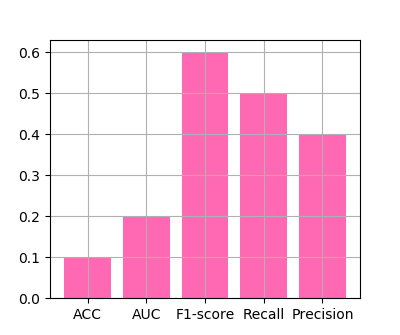
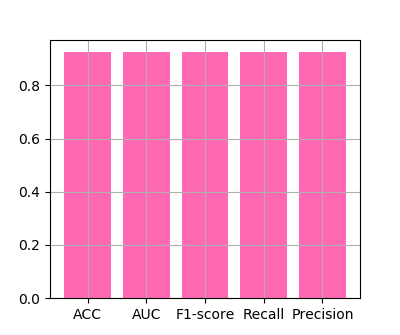
Add SDAE model to the system. But not finished

diff --git a/model/control.py b/model/control.py
@@ -11,20 +11,24 @@ from model.data import read_from_csv
 from model.sdae import SDAE
 
 
+# TODO: Calculate acc, auc, f1-score, recall, precision
+# TODO: Add SDAE model
+# TODO: Debug the whole fucking system
+
 # Calculate acc, auc, f1-score, recall, precision
 def evaluate(real, pred):
     r = np.reshape(real, [-1])
     p = np.reshape(pred, [-1])
     acc = accuracy_score(r, p)
     auc = roc_auc_score(r, p)
-    f_one_score = f1_score(r, p)
-    recall = recall_score(r, p)
-    precision = precision_score(r, p)
+    f_one_score = f1_score(r, p, average='weighted')
+    recall = recall_score(r, p, average='macro')
+    precision = precision_score(r, p, average='macro')
 
     return acc, auc, f_one_score, recall, precision
 
 
-# Draw auc, f1-score, recall, precision graph
+# Draw acc, auc, f1-score, recall, precision graph
 def draw_event_graph(result, event, model):
     """
     :param result: <tuple> (acc, auc, f1-score, recall, precision)
@@ -68,7 +72,6 @@ def draw_loss_curve(bleeding_loss, ischemic_loss, epoch, sample_quantity):
     plt.yticks(fontsize='xx-small')
 
     plt.legend(loc='upper right', fontsize='large', frameon=False)
-    # Delete top and right frames
     ax.spines['top'].set_color('none')
     ax.spines['right'].set_color('none')
     plt.savefig("../res/output/loss_curve.png")
@@ -115,7 +118,7 @@ def lr_experiment(dataset_path, epoch):
     ischemic_loss = []
 
     # Collect 50 loss values regardless of the value of epoch
-    sample_quantity = 5
+    sample_quantity = 50
     epoch = int(epoch)
     step = epoch // sample_quantity
 
@@ -158,9 +161,9 @@ def lr_experiment(dataset_path, epoch):
                 p[i, 1] = 0
 
         bleeding_result = evaluate(real=y_test, pred=p)
-        # draw_event_graph(bleeding_result, event="Bleeding events", model="lr")
+        draw_event_graph(bleeding_result, event="Bleeding events", model="lr")
 
-    ##########################################################################################################
+    ##########################################################################
     # Ischemic events
     x = tf.placeholder(tf.float32, [None, n_feature])
     w = tf.Variable(tf.zeros([n_feature, n_class]))
@@ -198,7 +201,7 @@ def lr_experiment(dataset_path, epoch):
                 p[i, 1] = 0
 
         ischemic_result = evaluate(real=y_test, pred=p)
-        # draw_event_graph(ischemic_result, event="Ischemic events", model="lr")
+        draw_event_graph(ischemic_result, event="Ischemic events", model="lr")
 
     if len(bleeding_loss) > sample_quantity:
         bleeding_loss = bleeding_loss[:-1]
@@ -215,12 +218,112 @@ def sdae_experiment(dataset_path, epoch, hiddens):
     :param hiddens: <list>
     :return:
     """
+    epoch = int(epoch)
     sample, bleed_label, ischemic_label = read_from_csv(dataset_path)
-    n_input = len(sample[0])
-    # sdae = SDAE(n_input, hiddens)
+    origin_n_input = len(sample[0])
+    n_class = 2
+    # 抽取后的feature数量
+    extract_feature_n = hiddens[-1]
+    # loss曲线的采样数量
+    sample_quantity = 50
+    step = sample_quantity // epoch
+    bleeding_loss = []
+    ischemic_loss = []
+
+    # Bleeding events
+    x_train, x_test, y_train, y_test = train_test_split(sample, bleed_label, test_size=0.3, random_state=0)
+    # SDAE本质上是无监督的，所以不需要label，训练SDAE用x_train即可
+    # 对特征抽取后，有一层Softmax，但是对于二分类而言，Softmax退化为LR
+    # LR是监督学习，需要训练。LR训练的样本是x_train抽取出来的x_extract_train，而样本标签依旧为y_train
+    print("1")
+    sdae = SDAE(origin_n_input, hiddens)
+    print("2")
+    sdae.pre_train(x_train)
+    print("3")
+    x_extract_train = sdae.encode(x_train)
+    print("4")
+    x_extract_test = sdae.encode(x_test)
+    print("5")
+    x = tf.placeholder(tf.float32, [None, extract_feature_n])
+    w = tf.Variable(tf.zeros([extract_feature_n, n_class]))
+    b = tf.Variable(tf.zeros([n_class]))
+
+    # y is prediction
+    y = tf.matmul(x, w) + b
+    pred = tf.nn.softmax(y)
+
+    # y_ is real
+    y_ = tf.placeholder(tf.float32, [None, n_class])
+    cross_entropy = tf.reduce_mean(tf.losses.softmax_cross_entropy(y_, y))
+    train_step = tf.train.AdamOptimizer(0.001).minimize(cross_entropy)
+
+    with tf.Session() as sess:
+        for i in range(epoch):
+            _, p, loss = sess.run((train_step, pred, cross_entropy), feed_dict={x: x_extract_train, y_: y_train})
+            if i % step == 0:
+                bleeding_loss.append(loss)
+
+        p = sess.run(pred, feed_dict={x: x_extract_test})
+        for i in range(len(p)):
+            if p[i, 0] >= 0.5:
+                p[i, 0] = 1
+            else:
+                p[i, 0] = 0
+            if p[i, 1] >= 0.5:
+                p[i, 1] = 1
+            else:
+                p[i, 1] = 0
+
+        bleeding_result = evaluate(real=y_test, pred=p)
+        draw_event_graph(bleeding_result, event="Bleeding events", model="sdae")
+
+    ##########################################################################
+    # Ischemic events
+    x_train, x_test, y_train, y_test = train_test_split(sample, ischemic_label, test_size=0.3, random_state=0)
+    sdae.pre_train(x_train)
+    x_extract_train = sdae.encode(x_train)
+    x_extract_test = sdae.encode(x_test)
+    x = tf.placeholder(tf.float32, [None, extract_feature_n])
+    w = tf.Variable(tf.zeros([extract_feature_n, n_class]))
+    b = tf.Variable(tf.zeros([n_class]))
+
+    # y is prediction
+    y = tf.matmul(x, w) + b
+    pred = tf.nn.softmax(y)
+
+    # y_ is real
+    y_ = tf.placeholder(tf.float32, [None, n_class])
+    cross_entropy = tf.reduce_mean(tf.losses.softmax_cross_entropy(y_, y))
+    train_step = tf.train.AdamOptimizer(0.001).minimize(cross_entropy)
+
+    with tf.Session() as sess:
+        sess.run(tf.global_variables_initializer())
+
+        for i in range(epoch):
+            _, p, loss = sess.run((train_step, pred, cross_entropy), feed_dict={x: x_extract_train, y_: y_train})
+            if i % step == 0:
+                print(loss, i)
+                ischemic_loss.append(loss)
+
+        p = sess.run(pred, feed_dict={x: x_extract_test})
+        for i in range(len(p)):
+            if p[i, 0] >= 0.5:
+                p[i, 0] = 1
+            else:
+                p[i, 0] = 0
+            if p[i, 1] >= 0.5:
+                p[i, 1] = 1
+            else:
+                p[i, 1] = 0
+        ischemic_result = evaluate(real=y_test, pred=p)
+        draw_event_graph(ischemic_result, event="Ischemic events", model="sdae")
+    if len(bleeding_loss) > sample_quantity:
+        bleeding_loss = bleeding_loss[:-1]
+    if len(ischemic_loss) > sample_quantity:
+        ischemic_loss = ischemic_loss[:-1]
+    draw_loss_curve(bleeding_loss, ischemic_loss, epoch, sample_quantity)
 
 
 if __name__ == "__main__":
     hiddens = [256, 128, 64]
-    # lr_experiment("C:/Users/ZM-BAD/Projects/ACSclassifier/res/dataset.csv", 100)
-    # sdae_experiment("C:/Users/ZM-BAD/Projects/ACSclassifier/res/dataset.csv", 1000, hiddens)
+    sdae_experiment("C:/Users/ZM-BAD/Projects/ACSclassifier/res/dataset.csv", 1000, hiddens)

diff --git a/model/sdae.py b/model/sdae.py
@@ -135,5 +135,7 @@ if __name__ == "__main__":
     test_x = np.array([[1, 0, 1, 1, 1, 1, 0, 1, 1, 1, 0, 0, 0, 0, 0, 0, 0, 0, 0, 0],
                        [0, 0, 0, 0, 0, 0, 0, 0, 0, 0, 1, 0, 1, 1, 1, 1, 1, 1, 0, 1]])
     sdae.pre_train(train_x)
+    hidden = sdae.encode(test_x)
     rec_x = sdae.reconstruct(test_x)
-    print(rec_x)
+    # print(rec_x)
+    print(hidden)

diff --git a/ui/call_panel.py b/ui/call_panel.py
@@ -10,9 +10,6 @@ from ui.panel import Ui_MainWindow
 from model.control import *
 
 
-# TODO: Calculate acc, auc, f1-score, recall, precision
-# TODO: Debug the whole fucking system
-
 class ModelThread(QThread):
     finished = pyqtSignal()
 
